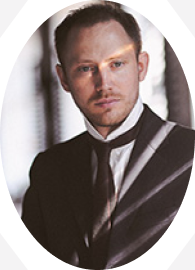
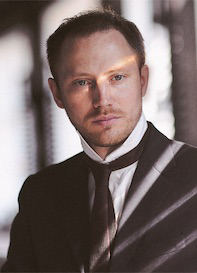
check pages

diff --git a/css/styles.css b/css/styles.css
@@ -6428,13 +6428,17 @@ mark {
     .teacherspage .teachers__list .teacher__card {
       display: inline-block;
       position: relative;
+      vertical-align: top;
       text-align: left;
       color: #726c78;
       margin: 50px 20px; }
       .teacherspage .teachers__list .teacher__card .teacher__photo img {
         display: block;
         width: 195px;
-        height: 270px; }
+        height: 270px;
+        -moz-border-radius: 120px / 160px;
+        -webkit-border-radius: 120px / 160px;
+        border-radius: 120px / 160px; }
       .teacherspage .teachers__list .teacher__card .teacher__name {
         font-family: 'Ubuntu', sans-serif;
         font-weight: 400;
@@ -6486,7 +6490,8 @@ mark {
         .teacherspage .teachers__list .teacher__card.center:after {
           right: -100px; }
         .teacherspage .teachers__list .teacher__card.center .teacher__photo img {
-          width: 420px; }
+          width: 420px;
+          border-radius: 0; }
 
 .graduatespage {
   width: 1200px;
@@ -6841,7 +6846,7 @@ mark {
       width: 100%;
       height: 100%;
       max-width: 420px;
-      max-height: 420px; }
+      min-height: 420px; }
       @media only screen and (max-width: 960px) {
         .listjobspage .jobs_content .course-preview {
           grid-column: 1/5;
@@ -6988,6 +6993,15 @@ mark {
         @media only screen and (max-width: 640px) {
           .reviewspage .reviews__list .reviews__item:nth-child(even) {
             grid-column: 1/5; } }
+      .reviewspage .reviews__list .reviews__item:nth-child(2):before {
+        content: "";
+        display: block;
+        position: absolute;
+        top: 0;
+        left: -360px;
+        background: url("../img/svg/icon_corkscrew.svg") no-repeat;
+        width: 330px;
+        height: 330px; }
       .reviewspage .reviews__list .reviews__item .reviews__iframe {
         grid-column: 1/4;
         display: inline-block;
@@ -7015,7 +7029,8 @@ mark {
             grid-column: 3/5; } }
         @media only screen and (max-width: 640px) {
           .reviewspage .reviews__list .reviews__item .block-grid {
-            grid-column: 1/5; } }
+            grid-column: 1/5;
+            justify-self: center; } }
         .reviewspage .reviews__list .reviews__item .block-grid .icon__write_reviews {
           display: block;
           position: relative;
@@ -7033,6 +7048,9 @@ mark {
           font-weight: 500;
           text-transform: uppercase;
           line-height: 70px; }
+          @media only screen and (max-width: 640px) {
+            .reviewspage .reviews__list .reviews__item .block-grid .icon__write_reviews {
+              margin: 0 auto 50px auto; } }
         .reviewspage .reviews__list .reviews__item .block-grid .course-preview {
           vertical-align: top;
           width: 100%;
@@ -7045,6 +7063,9 @@ mark {
               width: 420px;
               height: 420px;
               justify-self: end; } }
+          @media only screen and (max-width: 640px) {
+            .reviewspage .reviews__list .reviews__item .block-grid .course-preview {
+              justify-self: center; } }
           .reviewspage .reviews__list .reviews__item .block-grid .course-preview .course-preview__desc,
           .reviewspage .reviews__list .reviews__item .block-grid .course-preview .course-preview__type {
             margin-left: 60%;
@@ -7102,19 +7123,11 @@ mark {
               width: 420px;
               height: 420px;
               justify-self: end; } }
+          @media only screen and (max-width: 640px) {
+            .reviewspage .reviews__list .reviews__item .block-grid.partner-preview {
+              justify-self: center; } }
         .reviewspage .reviews__list .reviews__item .block-grid.reviews__item {
           margin-bottom: 0; }
-  .reviewspage .icon__corkscrew {
-    display: block;
-    position: absolute;
-    top: 900px;
-    left: -100px;
-    background: url("../img/svg/icon_corkscrew.svg") no-repeat;
-    width: 330px;
-    height: 330px; }
-    @media only screen and (max-width: 640px) {
-      .reviewspage .icon__corkscrew {
-        display: none; } }
 
 .formvacancypage {
   width: 100%;

diff --git a/teachers_page.html b/teachers_page.html
@@ -65,15 +65,7 @@
                 <div class="teacher__name">Николай Чащинов WA</div>
                 <div class="teacher__info">Победитель конкурса «Петербургский сомелье» (2006г). Обладатель «Балтийского
                     кубка» (2007г). Призер «Российского конкурса сомелье» (2007г) ...
-                </div>
-            </div>
-
-            <div class="teacher__card">
-                <div class="teacher__photo">
-                    <img src="./img/content/photo_teacher.png" alt="#"/>
-                </div>
-                <div class="teacher__name">Николай Чащинов WA</div>
-                <div class="teacher__info">Победитель конкурса «Петербургский сомелье» (2006г). Обладатель «Балтийского
+                    Победитель конкурса «Петербургский сомелье» (2006г). Обладатель «Балтийского
                     кубка» (2007г). Призер «Российского конкурса сомелье» (2007г) ...
                 </div>
             </div>
@@ -115,6 +107,29 @@
                 <div class="teacher__name">Николай Чащинов WA</div>
                 <div class="teacher__info">Победитель конкурса «Петербургский сомелье» (2006г). Обладатель «Балтийского
                     кубка» (2007г). Призер «Российского конкурса сомелье» (2007г) ...
+                    Победитель конкурса «Петербургский сомелье» (2006г). Обладатель «Балтийского
+                    кубка» (2007г). Призер «Российского конкурса сомелье» (2007г) ...
+                </div>
+            </div>
+
+            <div class="teacher__card">
+                <div class="teacher__photo">
+                    <img src="./img/content/photo_teacher.png" alt="#"/>
+                </div>
+                <div class="teacher__name">Николай Чащинов WA</div>
+                <div class="teacher__info">Победитель конкурса «Петербургский сомелье» (2006г). Обладатель «Балтийского
+                    кубка» (2007г). Призер «Российского конкурса сомелье» (2007г) ...
+                    Победитель конкурса «Петербургский сомелье» (2006г). Обладатель «Балтийского
+                    кубка» (2007г). Призер «Российского конкурса сомелье» (2007г) ...
+                </div>
+            </div>
+
+            <div class="teacher__card">
+                <div class="teacher__photo">
+                    <img src="./img/content/photo_teacher.png" alt="#"/>
+                </div>
+                <div class="teacher__name">Николай Чащинов WA</div>
+                <div class="teacher__info">Победитель конкурса «Петербургский сомелье» (2006г).
                 </div>
             </div>
 
@@ -133,8 +148,7 @@
                     <img src="./img/content/photo_teacher.png" alt="#"/>
                 </div>
                 <div class="teacher__name">Николай Чащинов WA</div>
-                <div class="teacher__info">Победитель конкурса «Петербургский сомелье» (2006г). Обладатель «Балтийского
-                    кубка» (2007г). Призер «Российского конкурса сомелье» (2007г) ...
+                <div class="teacher__info">Победитель конкурса «Петербургский сомелье» (2006г).
                 </div>
             </div>
 

diff --git a/scss/pages/_reviewspage.scss b/scss/pages/_reviewspage.scss
@@ -64,6 +64,17 @@
         }
       }
 
+      &:nth-child(2):before{
+        content:"";
+        display: block;
+        position: absolute;
+        top:0;
+        left:-360px;
+        background: url("../img/svg/icon_corkscrew.svg") no-repeat;
+        width: 330px;
+        height: 330px
+      }
+
       .reviews__iframe {
         grid-column: 1/4;
         display: inline-block;
@@ -99,6 +110,7 @@
 
         @media only screen and (max-width: 640px) {
           grid-column: 1/5;
+          justify-self: center;
         }
 
         .icon__write_reviews {
@@ -116,6 +128,11 @@
           font-weight: 500;
           text-transform: uppercase;
           line-height: 70px;
+
+          @media only screen and (max-width: 640px) {
+           margin:0 auto 50px auto;
+          }
+
         }
 
         .course-preview {
@@ -130,6 +147,10 @@
             width: 420px;
             height: 420px;
             justify-self: end;
+          }
+
+          @media only screen and (max-width: 640px) {
+            justify-self: center;
           }
 
           .course-preview__desc,
@@ -206,27 +227,16 @@
             height: 420px;
             justify-self: end;
           }
+
+          @media only screen and (max-width: 640px) {
+            justify-self: center;
+          }
         }
 
         &.reviews__item {
           margin-bottom: 0;
         }
       }
-    }
-  }
-
-
-  .icon__corkscrew {
-    display: block;
-    position: absolute;
-    top: 900px;
-    left: -100px;
-    background: url("../img/svg/icon_corkscrew.svg") no-repeat;
-    width: 330px;
-    height: 330px;
-
-    @media only screen and (max-width: 640px) {
-      display: none;
     }
   }
 }

diff --git a/list_jobs_page.html b/list_jobs_page.html
@@ -88,27 +88,6 @@
           </div>
         </div>
 
-        <div class="job__item">
-          <div class="job__data">
-            <p>14.04.2019</p>
-          </div>
-
-          <div class="job__title_info">
-            <h3>Кавист</h3>
-            <p>Винный Склад</p>
-          </div>
-        </div>
-
-        <div class="job__item">
-          <div class="job__data">
-            <p>10.04.2019</p>
-          </div>
-
-          <div class="job__title_info">
-            <h3>Официант-сомелье</h3>
-            <p>Винный Склад</p>
-          </div>
-        </div>
 
       </div>
 

diff --git a/scss/pages/_teacherspage.scss b/scss/pages/_teacherspage.scss
@@ -93,6 +93,7 @@
     .teacher__card{
       display: inline-block;
       position: relative;
+      vertical-align: top;
       text-align: left;
       color:$color-grey;
       margin:50px 20px;
@@ -102,6 +103,9 @@
           display: block;
           width:195px;
           height:270px;
+          -moz-border-radius: 120px / 160px;
+          -webkit-border-radius: 120px / 160px;
+          border-radius: 120px / 160px;
         }
       }
 
@@ -191,6 +195,7 @@
         .teacher__photo{
           img{
             width:420px;
+            border-radius:0;
           }
         }
       }

diff --git a/scss/pages/_listjobspage.scss b/scss/pages/_listjobspage.scss
@@ -192,10 +192,10 @@
     .course-preview {
       grid-column:5/7;
       vertical-align: top;
-      width:100%;
-      height:100%;
-      max-width:420px;
-      max-height: 420px;
+      width: 100%;
+      height: 100%;
+      max-width: 420px;
+      min-height: 420px;
 
       @media only screen and (max-width: 960px) {
         grid-column:1/5;
